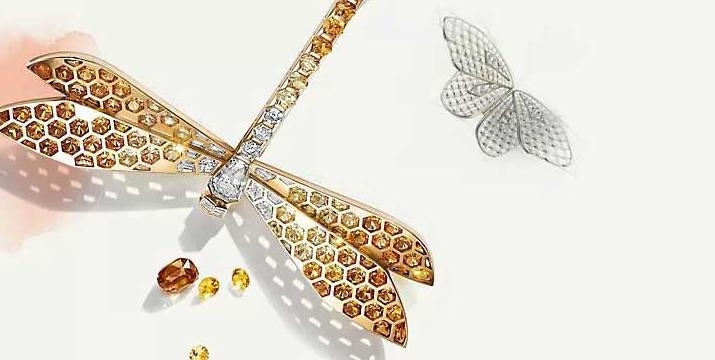
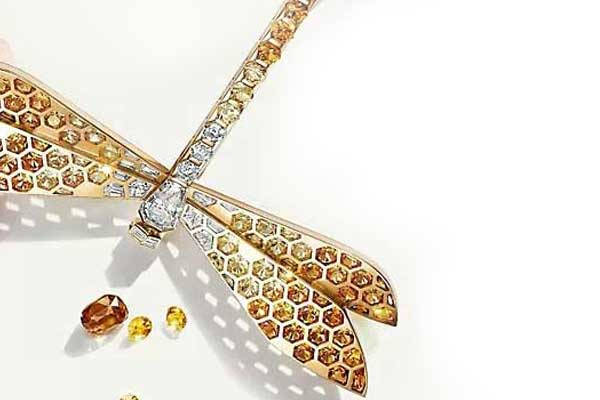
파인수정

diff --git a/css/main.css b/css/main.css
@@ -1238,6 +1238,10 @@ footer > .inner {
     padding-bottom: 30px;
   }
 
+  .m-fine .fineimg { 
+    width: 70%;
+  }
+  
   .m-fine .text-group {
     position: relative;
     line-height: 25px;
